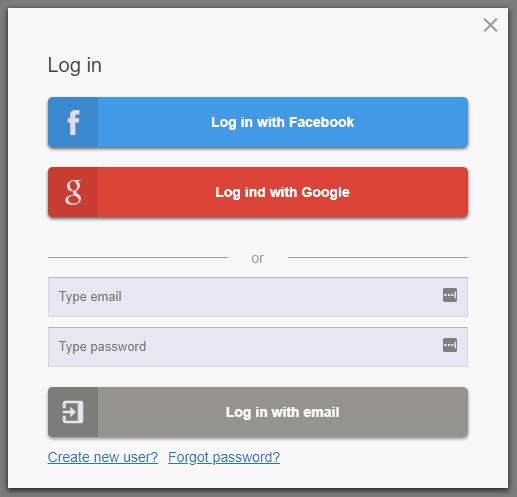
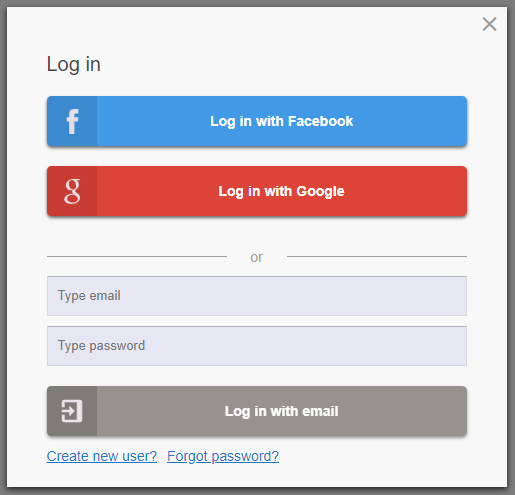
readme: preview & image fix

diff --git a/src/utils.js b/src/utils.js
@@ -3,7 +3,7 @@ export const labels = {
   signupTitle: "Create new user",
   forgotHeader: "Reset password",
   loginFacebookButton: "Log in with Facebook",
-  loginGoogleButton: "Log ind with Google",
+  loginGoogleButton: "Log in with Google",
   loginEmailButton: "Log in with email",
   signupFacebookButton: "Sign up with Facebook",
   signupGoogleButton: "Sign up with Google",

diff --git a/README.md b/README.md
@@ -8,7 +8,7 @@ npm i react-sm-login-modal
 ```
 
 ## :mag_right: Preview
-[!image](https://github.com/Silind/react-sm-login-modal/blob/master/preview.png)
+![image](https://github.com/Silind/react-sm-login-modal/blob/master/preview.png)
 
 ## :memo: Documentation
 
